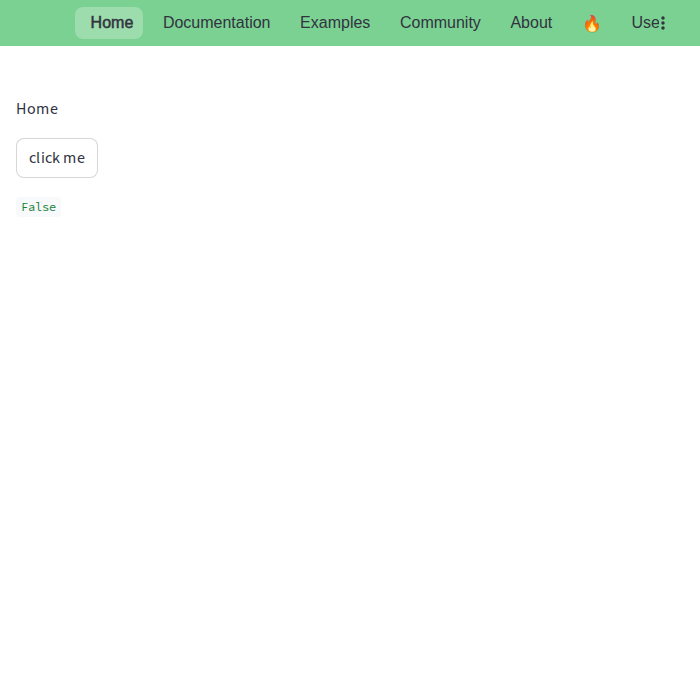
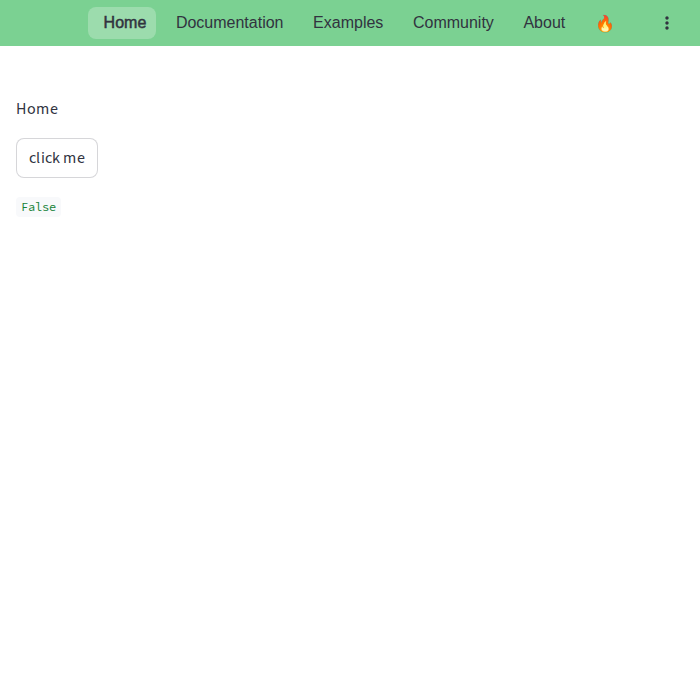
Streamlit 1 46 0 (#44)
* Update for streamlit 1.46.0

* Do we need this line?

* Fix css, new screenshots due to new streamlit

And made tests more reliable

* Fix screenshots

* Several css fixes

* New screenshots

* Take screenshots from runner

diff --git a/streamlit_navigation_bar/templates/base.css b/streamlit_navigation_bar/templates/base.css
@@ -7,13 +7,15 @@ iframe[title="streamlit_navigation_bar.st_navbar"] {
     top: 0px;
     left: 0px;
     {% if margin %}
-    width: calc(100% - 5.125rem);
-    margin-left: 2.5625rem;
-    margin-right: 2.5625rem;
+    width: calc(100% - 6.8rem);
+    margin-left: 3.4rem;
+    margin-right: 3.4rem;
     {% else %}
     width: 100%;
     {% endif %}
 }
+
+
 header[data-testid="stHeader"] {
     /* So that the navbar does not briefly disappear when switching pages */
     z-index: 0;
@@ -29,6 +31,11 @@ div[data-testid="stAppViewBlockContainer"] {
     /* Match Streamlit's default spacing after the body */
     margin-bottom: calc(5.875rem + {{ ui.height }});
 }
+section.stMain {
+    pointer-events: auto;
+    position: relative;
+    top: {{ ui.height }};
+}
 #stDecoration {
     visibility: hidden;
 }
@@ -42,7 +49,7 @@ div[data-testid="stToolbar"] {
     /* top: calc(({{ ui.height }} - 2rem) / 2); */
 
     /* Leave space to the left that is equal to the top and bottom */
-    right: 0.3125rem;
+    right: 0.05rem;
 }
 div[class="stStatusWidget"] {
     visibility: hidden;
@@ -53,6 +60,7 @@ div[class="stDeployButton"] {
 div[class="stAppDeployButton"] {
     visibility: hidden;
 }
+
 span[data-testid="stMainMenu"] path:nth-of-type(2) {
     fill: {{ ui.color }};
 }
@@ -67,10 +75,12 @@ span[data-testid="stMainMenu"] button[data-testid="baseButton-headerNoPadding"]:
 div[data-testid="stAppViewContainer"] {
     pointer-events: auto;
 }
+
 div[data-testid="stMainBlockContainer"] {
     pointer-events: none;
     padding-top: 5rem;
 }
+
 div[data-testid="collapsedControl"], div[data-testid="stSidebarCollapsedControl"] {
     pointer-events: auto;
 }
@@ -78,13 +88,9 @@ div[data-testid="collapsedControl"], div[data-testid="stSidebarCollapsedControl"
 div[data-testid="collapsedControl"], div[data-testid="stSidebarCollapsedControl"] div {
     margin-top: unset;
 }
+
 section[data-testid="stSidebar"] {
     pointer-events: auto;
-}
-section.stMain {
-    pointer-events: auto;
-    position: relative;
-    top: {{ ui.height }};
 }
 
 section.stMain div.stVerticalBlock {
@@ -131,7 +137,12 @@ div[data-testid="stSidebarContent"] button[data-testid="baseButton-header"]:hove
 {% endif %}
 {% if options["sidebar_under_navbar"] %}
 section[data-testid="stSidebar"] {
-    margin-top: {{ ui.height }};
+    background-color: {{ui.bg_color}};
+}
+div[data-testid="stSidebarContent"] {
+    /* margin-top: {{ ui.height }}; */
+    top: {{ ui.height }};
+    background-color: {{ui.theme.backgroundColor}};
 }
 {% endif %}
 

diff --git a/streamlit_navigation_bar/templates/options.css b/streamlit_navigation_bar/templates/options.css
@@ -15,14 +15,16 @@ div[data-testid="collapsedControl"], div[data-testid="stSidebarCollapsedControl"
 {% block hide_nav %}
 div[data-testid="stSidebarNav"] {
     display: none;
+	background-color: red;
 }
 div[data-testid="stSidebarUserContent"] {
 }
 {% endblock %}
 
 {% block fix_shadow %}
-section[data-testid="stSidebar"] {
+div[data-testid="stSidebarContent"] {
     /* Streamlit's default sidebar shadow style */
-    box-shadow: rgba(0, 0, 0, 0.16) -2rem 0px 2rem 2rem;
+    /* box-shadow: rgba(0, 0, 0, 0.16) -2rem 0px 2rem 2rem; */
+    box-shadow: rgba(0, 0, 0, 0.16) -2rem 2rem 2rem 2rem;
 }
 {% endblock %}
